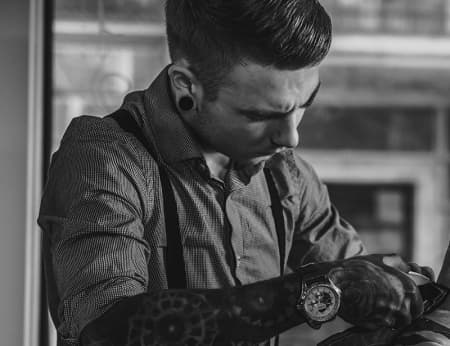
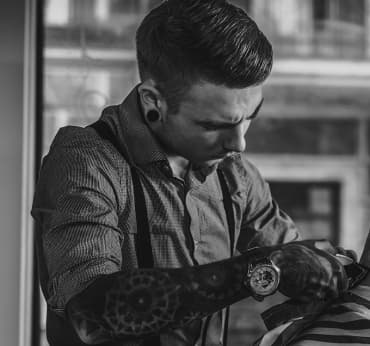
Fixed errors img

diff --git a/css/styles.css b/css/styles.css
@@ -57,6 +57,8 @@ address {
 
 img {
     display: block;
+    max-width: 100%;
+    height: auto;
 }
 
 /* ========== COMPONENTS ========= */
